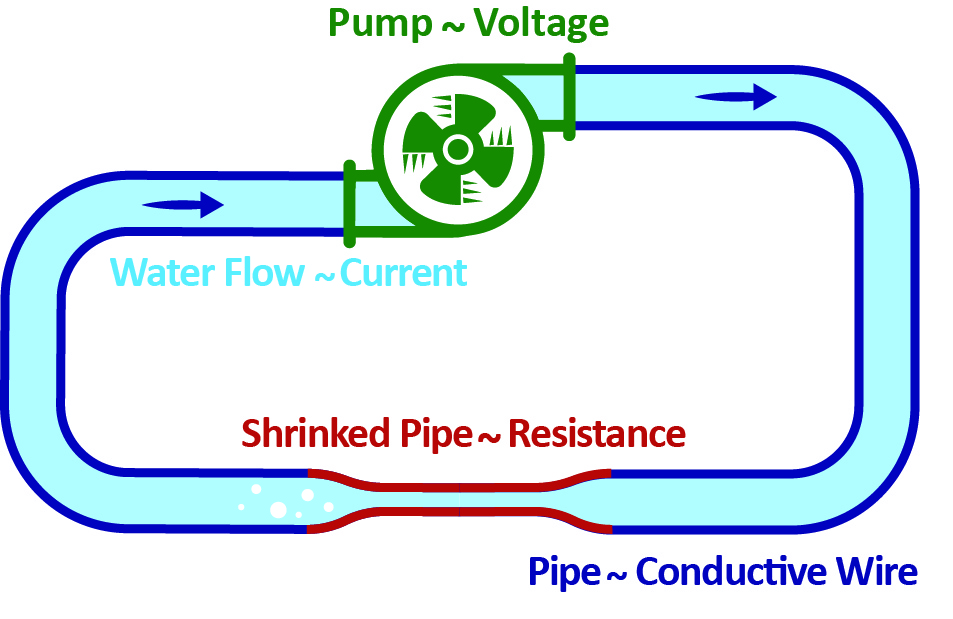
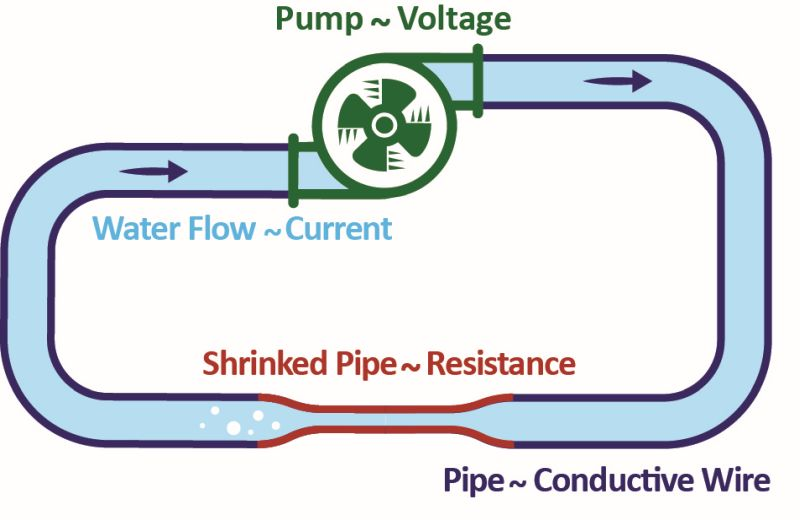
slike

Changed region(s): [[0.0, 0.0, 0.9688, 0.9538]]

diff --git a/docs/pojmovi.md b/docs/pojmovi.md
@@ -8,9 +8,9 @@ Da bismo razumeli kako nastaju elektricitet i električna struja, neophodno je d
 
 ![](slike/electron.png)
 
-**Elektroni** spadaju u osnovne gradivne čestice prirode. Oni su suprotnost protona. Elektroni i protoni su izuzetno mali i nalaze se u svemu oko nas. Zrnce prašine sadrži milione elektrona i protona.
+**Elektron je elementarna čestica sa negativnim naelektrisanjem**, koja spada u osnovne gradivne čestice prirode. Elektroni i protoni su izuzetno mali i nalaze se u svemu oko nas. Zrnce prašine sadrži milione elektrona i protona.
 
-Elektroni i **protoni** imaju jednaku količinu naelektrisanja, ali suprotnog pola - elektroni su naelektrisani negativno, a protoni pozitivno. Suprotna naelektrisanja se privlače, slično kao kod magneta. Privlačenje elektrona i protona u svetu mikroskopskih razmera deluje kao lepak i sprečava nestajanje materije.
+**Proton, pozitivno naelektrisana čestica, je suprotnost elektrona**. Elektroni i protoni imaju jednaku količinu naelektrisanja, ali suprotnog pola - elektroni su naelektrisani negativno, a protoni pozitivno. Suprotni polovi se privlače, kao kod magneta. Privlačenje elektrona i protona u mikrosvetu deluje kao lepak i sprečava nestajanje materije.
 
 Dok su protoni relativno nepokretni, elektroni često prelaze s jednog predmeta na drugi. 
 
@@ -18,7 +18,7 @@ Dok su protoni relativno nepokretni, elektroni često prelaze s jednog predmeta 
 
 ![](https://upload.wikimedia.org/wikipedia/commons/thumb/4/4b/Lightning3.jpg/330px-Lightning3.jpg)
 
-**Elektricitet** je prirodni fenomen koji potiče od prisustva i kretanja električnog naboja.
+**Elektricitet** je prirodni fenomen koji potiče od prisustva i kretanja električnog naboja. Negativan električni naboj znači da čestica ima višak elektrona. Takve čestice se međusobno odbijaju, a privlače ih čestice sa pozitivnim nabojem.
 
 Prošetajte po vunenom tepihu i dotaknite kvaku; elektroni koji putuju između vašeg prsta i kvake izazivaće varnicu. Munja je najupečatljiviji primer elektrona koji putuju između oblaka i površine zemlje. Ovo su primeri elektriciteta u "neobuzdanom" stanju.
 
@@ -52,6 +52,8 @@ Neki materijali bolje provode elektricitet od drugih. Uglavnom se kao **provodni
 **Napon** je razlika električnog potencijala između dve tačke. Možemo ga zamisliti kao pritisak koji tera elektrone da se kreću kroz provodnik. Negativno naelektrisani elektroni kreću se kroz provodnik ka pozitivnom naponu. Napon se meri u voltima (**V**), zbog čega se naziva i **voltaža**. Oznaka za napon je **U**.
 
 **Elektromotorna sila** je vrsta napona koju proizvodi izvor struje (npr. baterija ili generator) da bi pokrenuo elektrone kroz kolo.
+
+![](slike/analogija.png)
 
 ## Otpor
 
